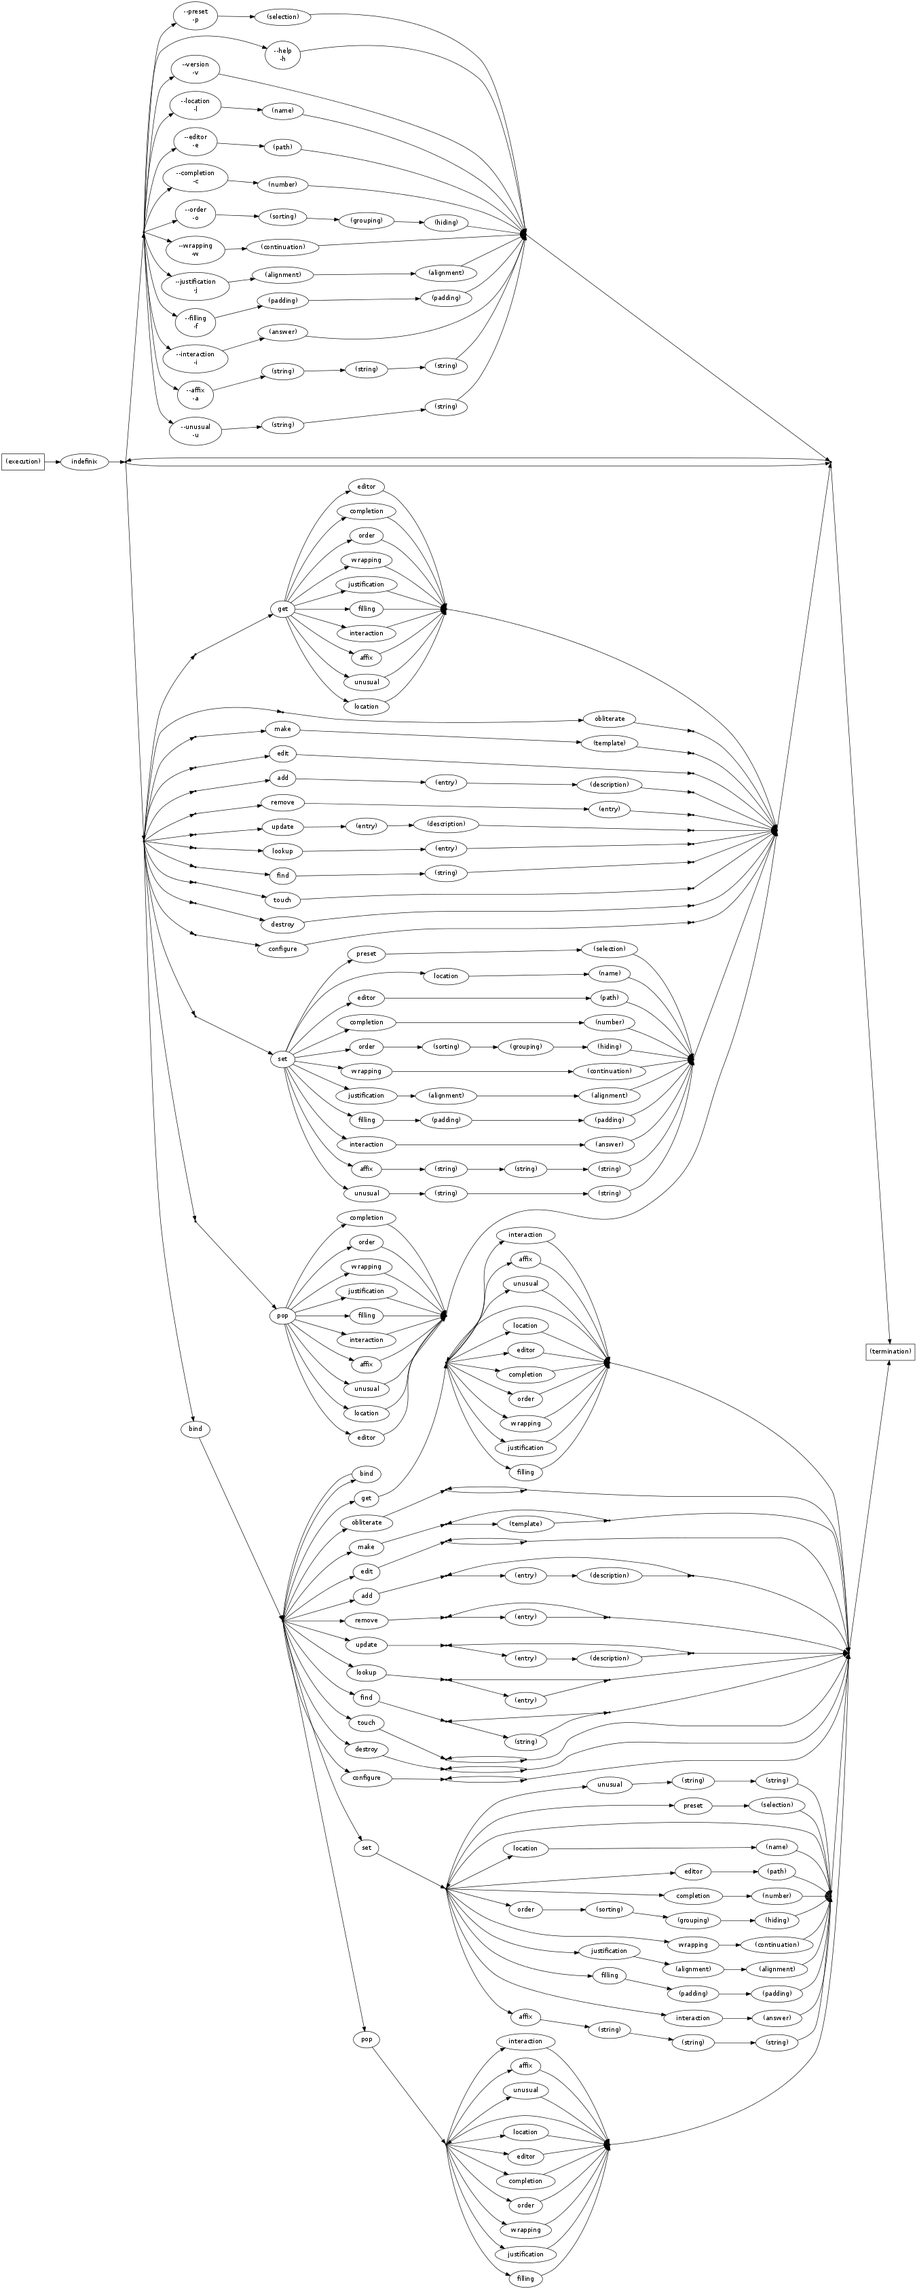
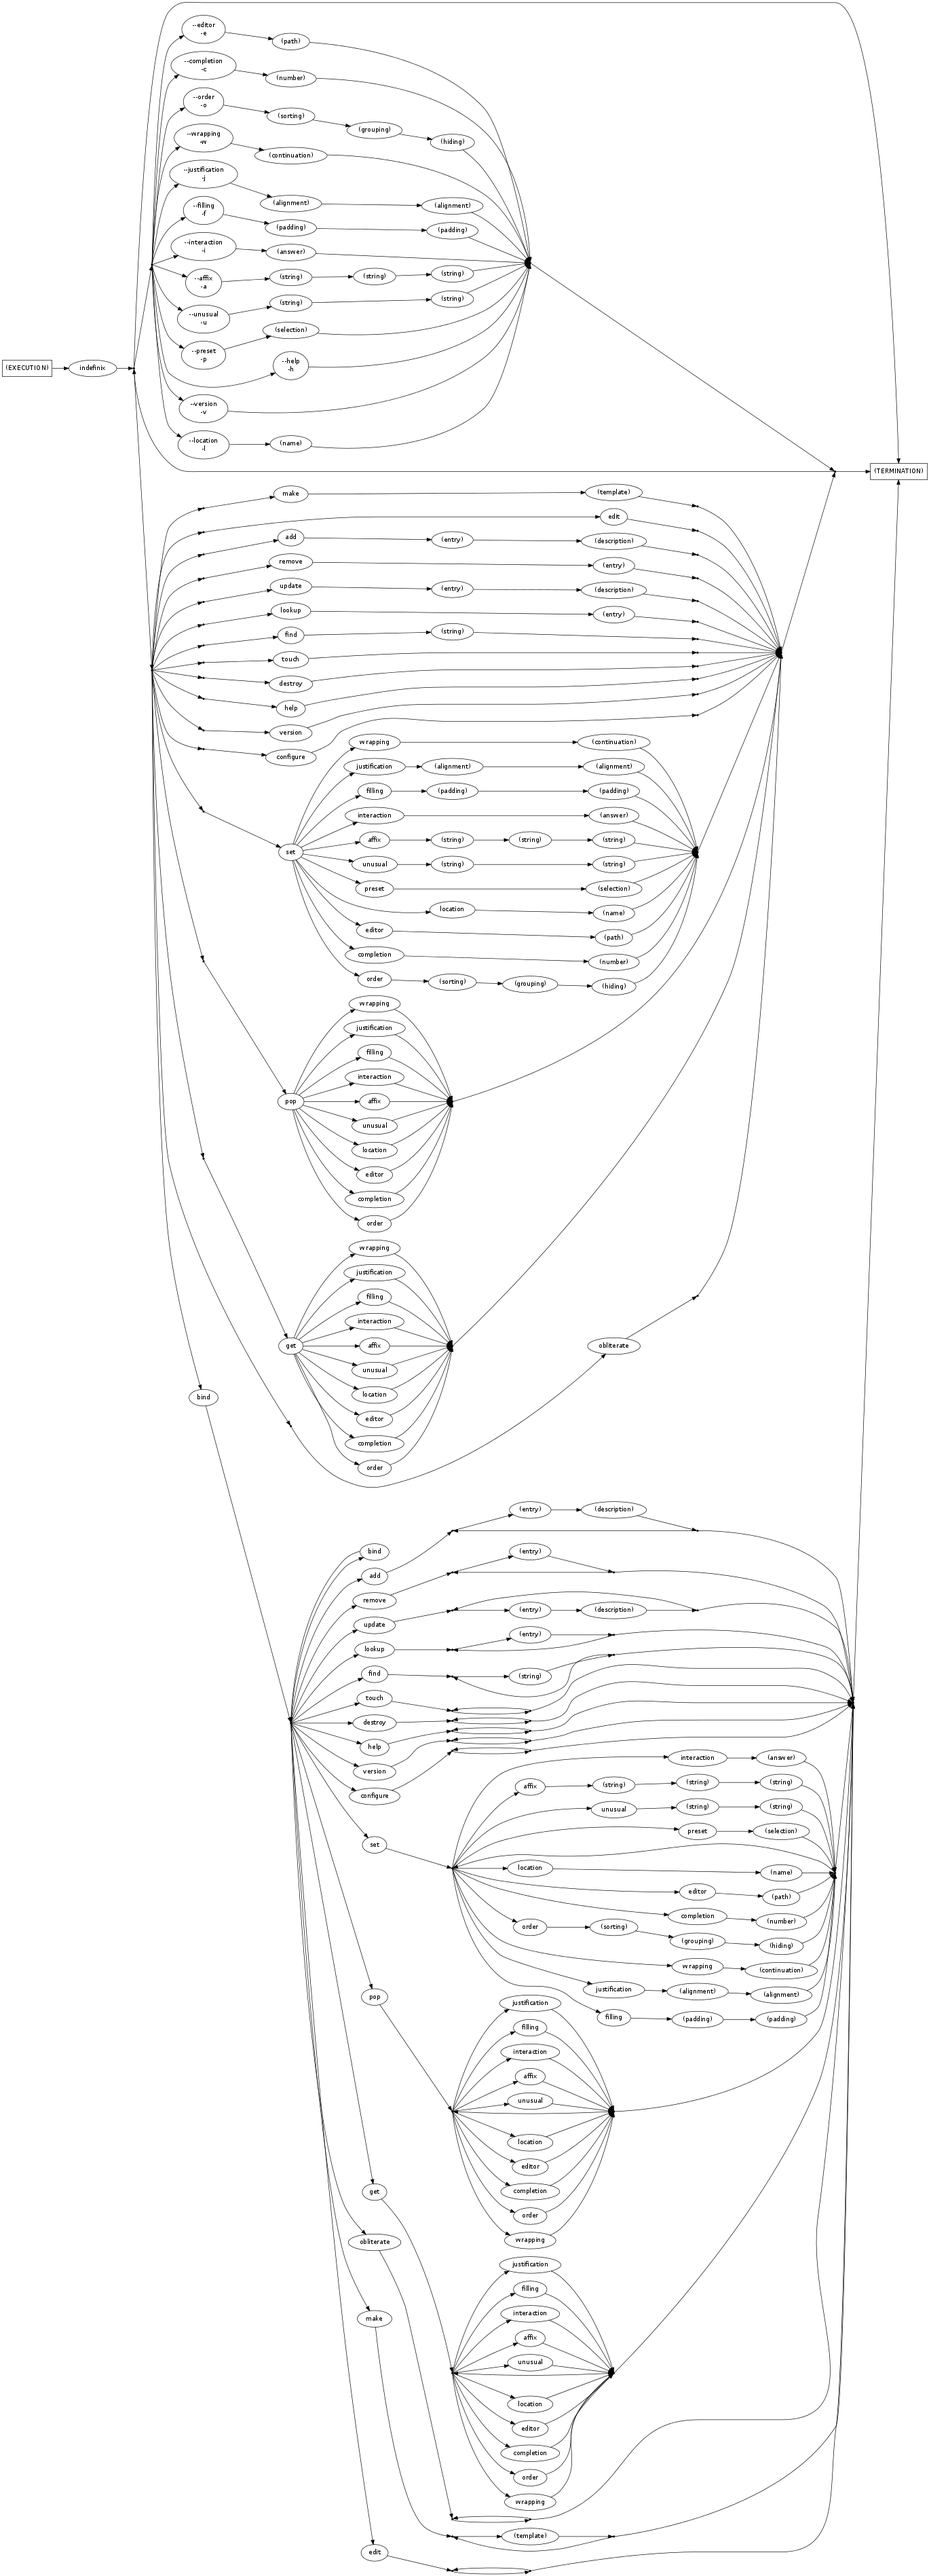
Simplified the command categorization and improved their resolution.

diff --git a/src/data.c b/src/data.c
@@ -7,27 +7,105 @@
 
 const struct action commands[COMMAND_COUNT] = {
 	{
+		.name = "configure",
+		.abbreviation = "c",
+		.arity = 0,
+		.command = COMMAND_CONFIGURE
+	},
+	{
+		.name = "set",
+		.abbreviation = "s",
+		.arity = 0,
+		.command = COMMAND_SET
+	},
+	{
+		.name = "pop",
+		.abbreviation = "p",
+		.arity = 0,
+		.command = COMMAND_POP
+	},
+	{
+		.name = "get",
+		.abbreviation = "g",
+		.arity = 0,
+		.command = COMMAND_GET
+	},
+	{
+		.name = "obliterate",
+		.abbreviation = "o",
+		.arity = 0,
+		.command = COMMAND_OBLITERATE
+	},
+	{
+		.name = "make",
+		.abbreviation = "m",
+		.arity = 0,
+		.command = COMMAND_MAKE
+	},
+	{
+		.name = "edit",
+		.abbreviation = "e",
+		.arity = 0,
+		.command = COMMAND_EDIT
+	},
+	{
+		.name = "add",
+		.abbreviation = "a",
+		.arity = 0,
+		.command = COMMAND_ADD
+	},
+	{
+		.name = "remove",
+		.abbreviation = "r",
+		.arity = 0,
+		.command = COMMAND_REMOVE
+	},
+	{
+		.name = "update",
+		.abbreviation = "u",
+		.arity = 0,
+		.command = COMMAND_UPDATE
+	},
+	{
+		.name = "lookup",
+		.abbreviation = "l",
+		.arity = 0,
+		.command = COMMAND_LOOKUP
+	},
+	{
+		.name = "find",
+		.abbreviation = "f",
+		.arity = 0,
+		.command = COMMAND_FIND
+	},
+	{
+		.name = "touch",
+		.abbreviation = "t",
+		.arity = 0,
+		.command = COMMAND_TOUCH
+	},
+	{
+		.name = "destroy",
+		.abbreviation = "d",
+		.arity = 0,
+		.command = COMMAND_DESTROY
+	},
+	{
 		.name = "help",
 		.abbreviation = "h",
 		.arity = 0,
-		.thing = {
-			.c = COMMAND_HELP
-		}
+		.command = COMMAND_HELP
 	},
 	{
 		.name = "version",
 		.abbreviation = "v",
 		.arity = 0,
-		.thing = {
-			.c = COMMAND_VERSION
-		}
+		.command = COMMAND_VERSION
 	},
 	{
-		.name = "test",
-		.abbreviation = "t",
-		.arity = 1,
-		.thing = {
-			.c = COMMAND_TEST
-		}
+		.name = "bind",
+		.abbreviation = "b",
+		.arity = 0,
+		.command = COMMAND_BIND
 	}
 };

diff --git a/src/calculator.c b/src/calculator.c
@@ -1,0 +1,53 @@
+/**
+@file
+@author Sampsa "Tuplanolla" Kiiskinen
+**/
+
+#include <stddef.h> // size_t
+#include <string.h> // strlen()
+
+static size_t minimum(const size_t x, const size_t y) {
+	if (x < y)
+		return x;
+	return y;
+}
+
+size_t distance(const char* const x, const char* const y) {
+	const size_t x_length = strlen(x),
+			y_length = strlen(y);
+	size_t distances[x_length + 1][y_length + 1]; // -Wvla
+	for (size_t character = 0;
+			character <= x_length;
+			++character)
+		distances[character][0] = character;
+	for (size_t character = 0;
+			character <= y_length;
+			++character)
+		distances[0][character] = character;
+	for (size_t row = 0;
+			row < x_length;
+			++row) {
+		for (size_t column = 0;
+				column < y_length;
+				++column) {
+			size_t cost;
+			if (x[row] == y[column])
+				cost = 0;
+			else
+				cost = 1;
+			distances[row + 1][column + 1] = minimum(
+					distances[row][column + 1] + 1, // deletion
+					minimum(distances[row + 1][column] + 1, // insertion
+					distances[row][column] + cost)); // substitution
+			if (row > 1
+					&& column > 1
+					&& x[row] == y[column - 1]
+					&& x[row - 1] == y[column]) {
+				distances[row + 1][column + 1] = minimum(
+						distances[row + 1][column + 1],
+						distances[row - 1][column - 1] + cost); // swapping
+			}
+		}
+	}
+	return distances[x_length][y_length];
+}

diff --git a/src/resolver.c b/src/resolver.c
@@ -7,8 +7,9 @@
 
 #include <stddef.h> // NULL, size_t
 #include <string.h> // strlen()
+#include <stdlib.h> // qsort()
 
-#include "data.h" // COMMAND_*, TYPE_*, commands
+#include "data.h" // COMMAND_*, TYPE_*, commands, struct action, struct guess
 
 struct container resolve(const char* const argument, const size_t limit) {
 	struct container result;
@@ -56,6 +57,26 @@ struct container resolve(const char* const argument, const size_t limit) {
 	return result;
 }
 
+static int comparator(const struct guess* const x, const struct guess* const y) {
+	if (x->distance < y->distance)
+		return -1;
+	if (x->distance > y->distance)
+		return 1;
+	return 0;
+}
+
 struct holder approximate(const char* argument, size_t limit) {
-	return (struct holder ){}; // TODO this
+	struct holder result;
+	for (size_t command = 0;
+			command < COMMAND_COUNT;
+			++command) {
+		result.guesses[command].distance = distance(argument, commands[command].name);
+		result.guesses[command].instance = &commands[command];
+	}
+	qsort(&result.guesses, COMMAND_COUNT, sizeof result.guesses[0], comparator);
+	for (size_t command = 0;
+			command < COMMAND_COUNT;
+			++command)
+		printf("Found %s (%zu).\n", result.guesses[command].instance->name, result.guesses[command].distance);
+	return result;
 }

diff --git a/src/data.h b/src/data.h
@@ -20,28 +20,49 @@ enum type {
 };
 
 enum command {
+	COMMAND_CONFIGURE,
+	COMMAND_SET,
+	COMMAND_POP,
+	COMMAND_GET,
+	COMMAND_OBLITERATE,
+	COMMAND_MAKE,
+	COMMAND_EDIT,
+	COMMAND_ADD,
+	COMMAND_REMOVE,
+	COMMAND_UPDATE,
+	COMMAND_LOOKUP,
+	COMMAND_FIND,
+	COMMAND_TOUCH,
+	COMMAND_DESTROY,
 	COMMAND_HELP,
 	COMMAND_VERSION,
-	COMMAND_TEST,
+	COMMAND_BIND,
 
 	COMMAND_COUNT
 };
 
-enum flag {
-	FLAG_HELP,
-	FLAG_VERSION,
+enum key {
+	KEY_LOCATION,
+	KEY_EDITOR,
+	KEY_COMPLETION,
+	KEY_ORDER,
+	KEY_WRAPPING,
+	KEY_JUSTIFICATION,
+	KEY_FILLING,
+	KEY_INTERACTION,
+	KEY_AFFIX,
+	KEY_HEADAFFIX,
+	KEY_TAILAFFIX,
+	KEY_UNUSUAL,
 
-	FLAG_COUNT
+	KEY_COUNT
 };
 
 struct action {
 	const char* name;
 	const char* abbreviation;
 	size_t arity;
-	union {
-		enum command c;
-		enum flag f;
-	} thing;
+	enum command command;
 };
 
 struct container {
@@ -55,7 +76,6 @@ struct guess {
 };
 
 struct holder {
-	size_t count;
 	struct guess guesses[COMMAND_COUNT];
 };
 

diff --git a/src/parser.c b/src/parser.c
@@ -26,20 +26,19 @@ int parse(const char* const* arguments) {
 		case TYPE_ERROR:
 			fprintf(debug_stream, "Resolution failed!\n");
 			const struct holder guesses = approximate(*arguments, limit);
+			fprintf(debug_stream, "Did you mean %s, %s or %s?\n", guesses.guesses[0].instance->name,
+					guesses.guesses[1].instance->name,
+					guesses.guesses[2].instance->name); // dangerous
 			return -1; // resolution problem
 		case TYPE_END:
-			fprintf(debug_stream, "That's all.\n");
 			return 0; // done
 		case TYPE_COMMAND:
-			fprintf(debug_stream, "Instance: %s (%s)\n", container.instance.name, container.instance.abbreviation);
 			if (execute(container.instance, arguments + 1) == -1) {
-				fprintf(debug_stream, "Execution failed!\n");
 				return -1; // execution problem
 			}
 		case TYPE_FLAG:
 			break;
 		}
-		fprintf(debug_stream, "\n");
 		arguments += 1 + container.instance.arity;
 	}
 }

diff --git a/src/resolver.h b/src/resolver.h
@@ -13,7 +13,7 @@ Interprets the user's commands.
 #include "data.h"
 
 /**
-Tries to find which command corresponds to the given argument.
+Returns the command the given argument refers to if possible.
 Automatically completes the given argument if it's longer than the given limit or the given limit is zero.
 
 @param argument The argument.
@@ -23,7 +23,7 @@ Automatically completes the given argument if it's longer than the given limit o
 struct container resolve(const char* argument, size_t limit);
 
 /**
-Finds which commands are closest to the given argument.
+Returns the distances of all commands from the given argument.
 Automatically completes the given argument if it's longer than the given limit or the given limit is zero.
 
 @param argument The argument.

diff --git a/src/executor.c b/src/executor.c
@@ -13,13 +13,13 @@
 int execute(const struct action resolution, const char* const* const arguments) {
 	FILE* const stream = stdout;
 
-	switch (resolution.thing.c) {
+	switch (resolution.command) {
 	case COMMAND_HELP:
 		return print_help(stream);
 	case COMMAND_VERSION:
 		return print_summary(stream);
-	case COMMAND_TEST:
-		return 0;
+	default:
+		return 0; // temporary
 	}
 	return -1;
 }

diff --git a/src/calculator.h b/src/calculator.h
@@ -1,0 +1,20 @@
+/**
+Calculates complicated things for the user.
+
+@file
+@author Sampsa "Tuplanolla" Kiiskinen
+**/
+
+#ifndef CALCULATOR_H
+#define CALCULATOR_H
+
+/**
+Returns the edit distance between two strings.
+
+@param x The first string.
+@param y The second string.
+@return The edit distance.
+**/
+size_t distance(const char* x, const char* y);
+
+#endif

diff --git a/src/helper.c b/src/helper.c
@@ -25,6 +25,8 @@ Indexing Commands: make (template)\n\
                    find (string)\n\
                    touch\n\
                    destroy\n\
+General Commands: help\n\
+                  version\n\
 Special Commands: bind (command) (arguments)\n\
 Configuration Keys: location (name)\n\
                     editor (path)\n\

diff --git a/README.md b/README.md
@@ -168,6 +168,12 @@ The command `touch` rebuilds the index file if it's mangled.
 
 The command `destroy` deletes the index file.
 
+#### General
+
+The command `help` prints a short usage reference, which also appears when Indefinix is invoked without any arguments.
+
+The command `version` prints a short summary, including version information.
+
 #### Special Cases
 
 In addition to configuration keys and index entries, there are a handful of special cases.
@@ -179,10 +185,6 @@ Only `default` is a valid `(selection)`.
 
 The special value `%` is equivalent to an empty (essentially `NULL`) value and different from `""`.
 The string `%%` works as a literal `%` since `%` alone is reserved.
-
-The special flag `--help`, abbreviated as `-h`, prints a short usage reference, which also appears when Indefinix is invoked without any arguments.
-
-The special flag `--version`, abbreviated as `-v`, prints version information.
 
 The special command `bind (command) (arguments)` gives all the subsequent arguments to the next command, flags included.
 The two following commands are identical for example.
